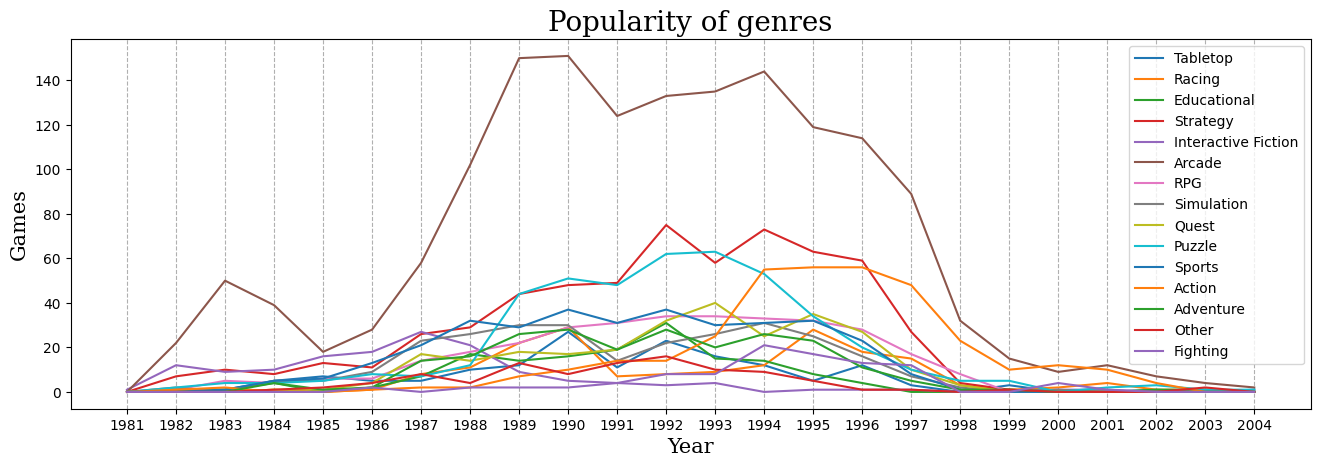
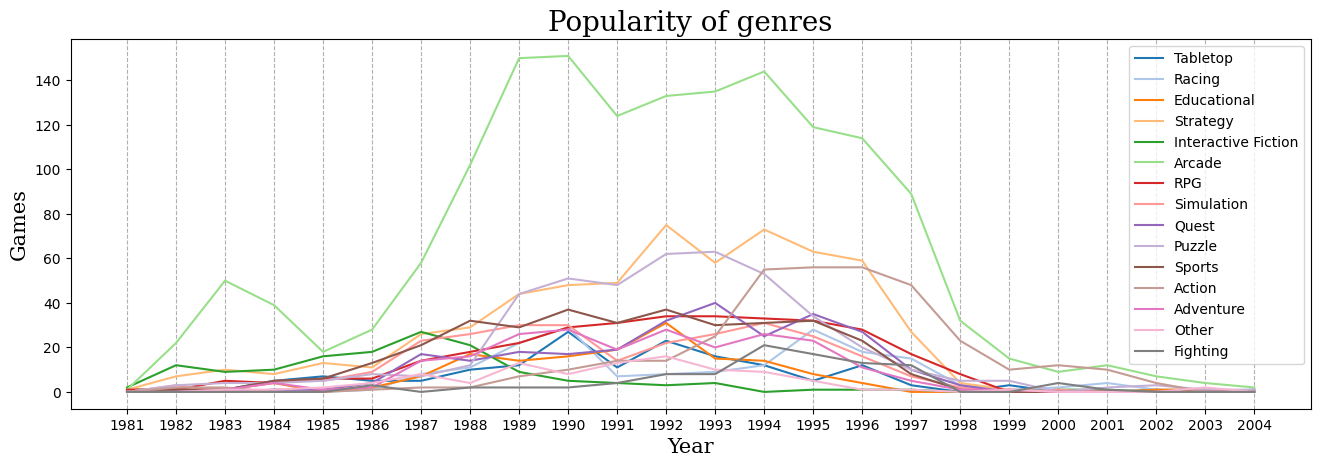
Task 11 better color cycle

diff --git a/practice3/pr3-task11.py b/practice3/pr3-task11.py
@@ -18,9 +18,8 @@ def parse_data():
             # number of games each year per genre
             if genres.get(genre) is None:
                 genres[genre] = {str(x): 0 for x in range(1981, 2005)}
-            else:
-                if genres[genre].get(year) is not None:
-                    genres[genre][year] += 1
+            if genres[genre].get(year) is not None:
+                genres[genre][year] += 1
 
     return years, genres
 
@@ -43,7 +42,15 @@ def main():
     plt.savefig('images/plot_years', bbox_inches='tight')
     plt.close()
 
+    # colors from continuous colormaps
+    # N = 16
+    # colors = plt.cycler("color", plt.cm.viridis([i/(N-1) for i in range(N)]))
+
+    # colors from discrete colormaps
+    colors = plt.cycler("color", plt.cm.tab20.colors)
+
     # genres plot settings
+    plt.rcParams["axes.prop_cycle"] = colors
     plt.figure(figsize=(16, 4.8))
     plt.grid(axis='x', linestyle='--')
     plt.title("Popularity of genres", fontdict=font1)

diff --git a/practice3/README.md b/practice3/README.md
@@ -194,10 +194,16 @@ def parse_data():
     return years, genres
 ```
 
-All that's left is to plot the data with `bar()` and `plot()`:
+All that's left is to plot the data with `bar()` and `plot()`.
+Also, for the second plot we need to use a color cycle that has at least 15 colors
+(as there are 15 genres on our plot). We can use the `tab20` colormap for that.
 ```python
 # first plot
 plt.bar(years.keys(), years.values())
+
+# color cycle for secont plot
+colors = plt.cycler("color", plt.cm.tab20.colors)
+plt.rcParams["axes.prop_cycle"] = colors
 
 # second plot
 for genre in genres:
@@ -207,8 +213,9 @@ for genre in genres:
 So, down below are the plots that we got. Let's give our answers:
 1. The number of releases started growing in 1987, held high in 1989-1996, peaked in 1994,
 and started to decline in 1997.
-2. The absolute most popular genre was Arcade. In 1989-1994 Puzzle games were very popular.
-Since 1994 Action games became popular and remain so.
+2. The absolute most popular genre was Arcade. Puzzle games were popular in 1989-1994.
+Strategy games were popular in 1989-1997. Action games have been popular since 1994.
+RPG, Quest and Sports genres also stayed mildly popular throughout 1986-1998.
 
 ![years plot](images/plot_years.png)
 ![genres plot](images/plot_genres.png)
